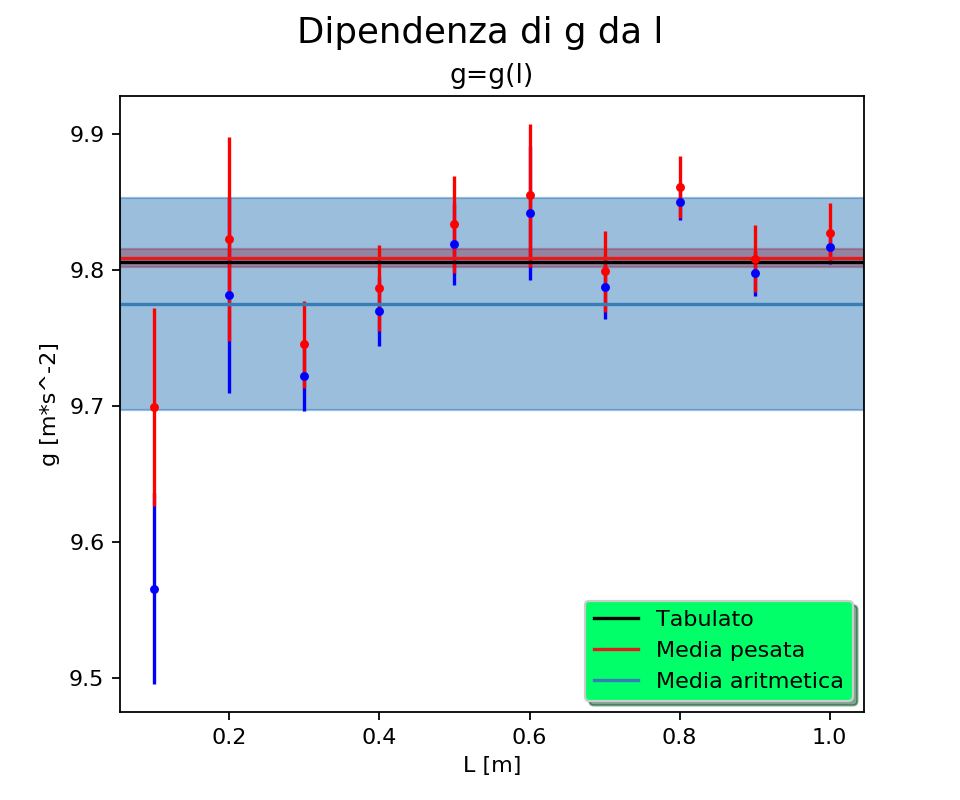
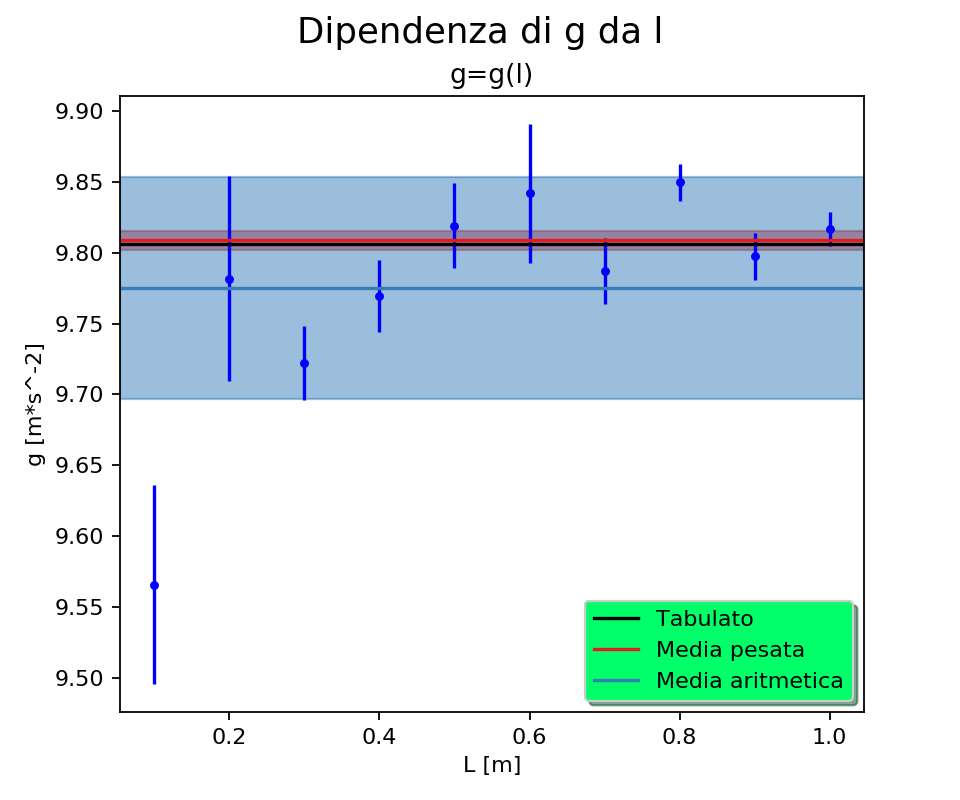
added 7th figure

diff --git a/pendolo-massa/pendolo_massa_3.py b/pendolo-massa/pendolo_massa_3.py
@@ -223,7 +223,7 @@ def parte_3():
     #sp1
     ax51=fig5.add_subplot(1,1,1)
     ax51.errorbar(x,g,xerr=dx,yerr=dg,fmt='b.')
-    ax51.errorbar(x,g_1,xerr=dx,yerr=dg_1,fmt='r.')
+    # ax51.errorbar(x,g_1,xerr=dx,yerr=dg_1,fmt='r.')
     ax51.axhline(y=9.806,color='#000000',label='Tabulato')
     ax51.axhline(y=g0_w,color='#e41a1c',label='Media pesata')
     ax51.axhspan(ymin=g0_w-dg0_w,ymax=g0_w+dg0_w,color='#e41a1c',alpha=.5)
@@ -253,6 +253,25 @@ def parte_3():
     #finishing
     fig6.suptitle('Dipendenza di g da l (considerando a)',fontsize=16)
 
+    ##PLOT 7
+    fig7=plt.figure(figsize=MONO_FIGSIZE)
+    #sp1
+    ax71=fig7.add_subplot(1,1,1)
+    ax71.errorbar(x,g,xerr=dx,yerr=dg,fmt='b.',label='Pendolo semplice')
+    ax71.errorbar(x,g_1,xerr=dx,yerr=dg_1,fmt='r.',label='Pendolo fisico')
+    ax71.axhline(y=g0_w,color='b',label='Media pesata pendolo semplice')
+    ax71.axhline(y=g0_1w,color='r',label='Media pesata pendolo fisico')
+    ax71.axhline(y=9.806,color='#000000',label='Tabulato')
+    ax71.axhspan(ymin=g0_w-dg0_w,ymax=g0_w+dg0_w,color='b',alpha=.2)
+    ax71.axhspan(ymin=g0_1w-dg0_1w,ymax=g0_1w+dg0_1w,color='r',alpha=.2)
+    ax71.set_title('g=g(l)')
+    ax71.set_ylabel('g ['+l_units+'*'+t_units+'^-2]')
+    ax71.set_xlabel('L ['+l_units+']')
+    legend71 = ax71.legend(loc='lower right', shadow=True)
+    legend71.get_frame().set_facecolor('#00FF69')
+    #finishing
+    fig7.suptitle('Dipendenza di g da l',fontsize=16)
+
     #plt.show()
     fig1.savefig('Relazione/fig 3/fig1.png', transparent=False, dpi=160, )
     fig2.savefig('Relazione/fig 3/fig2.png', transparent=False, dpi=160, )
@@ -260,3 +279,4 @@ def parte_3():
     fig4.savefig('Relazione/fig 3/fig4.png', transparent=False, dpi=160, )
     fig5.savefig('Relazione/fig 3/fig5.png', transparent=False, dpi=160, )
     fig6.savefig('Relazione/fig 3/fig6.png', transparent=False, dpi=160, )
+    fig7.savefig('Relazione/fig 3/fig7.png', transparent=False, dpi=160, )
